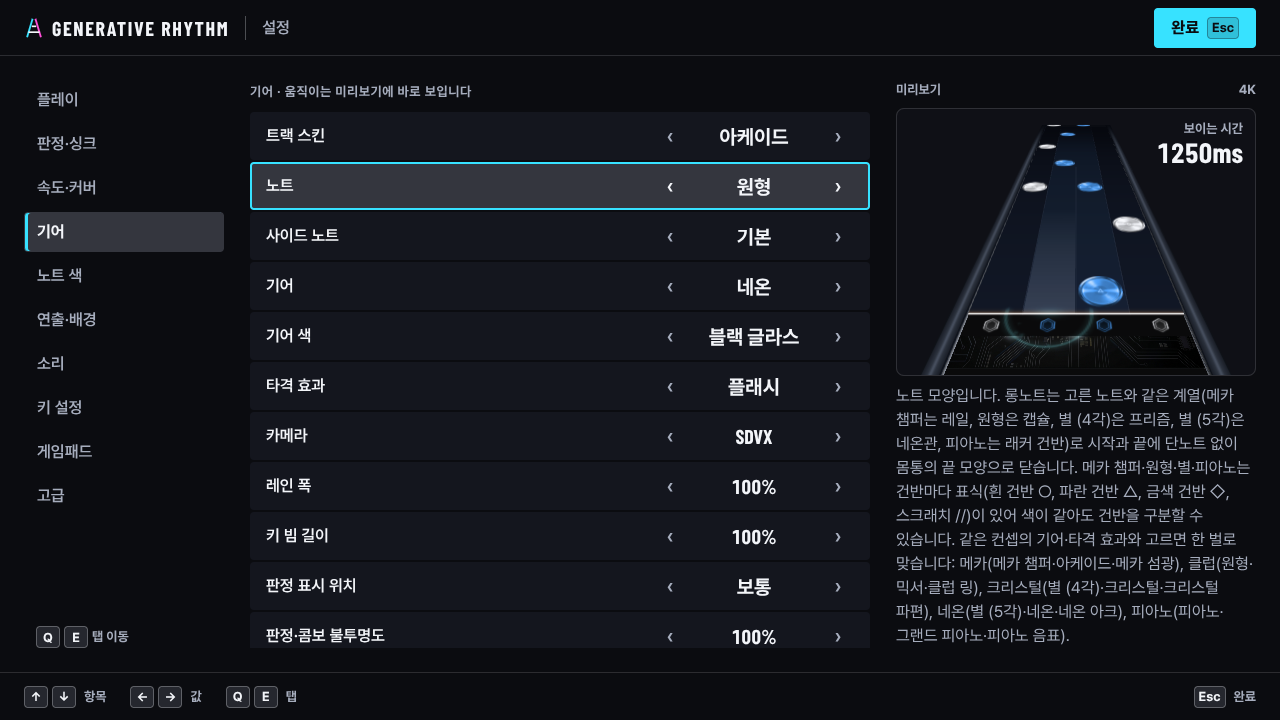
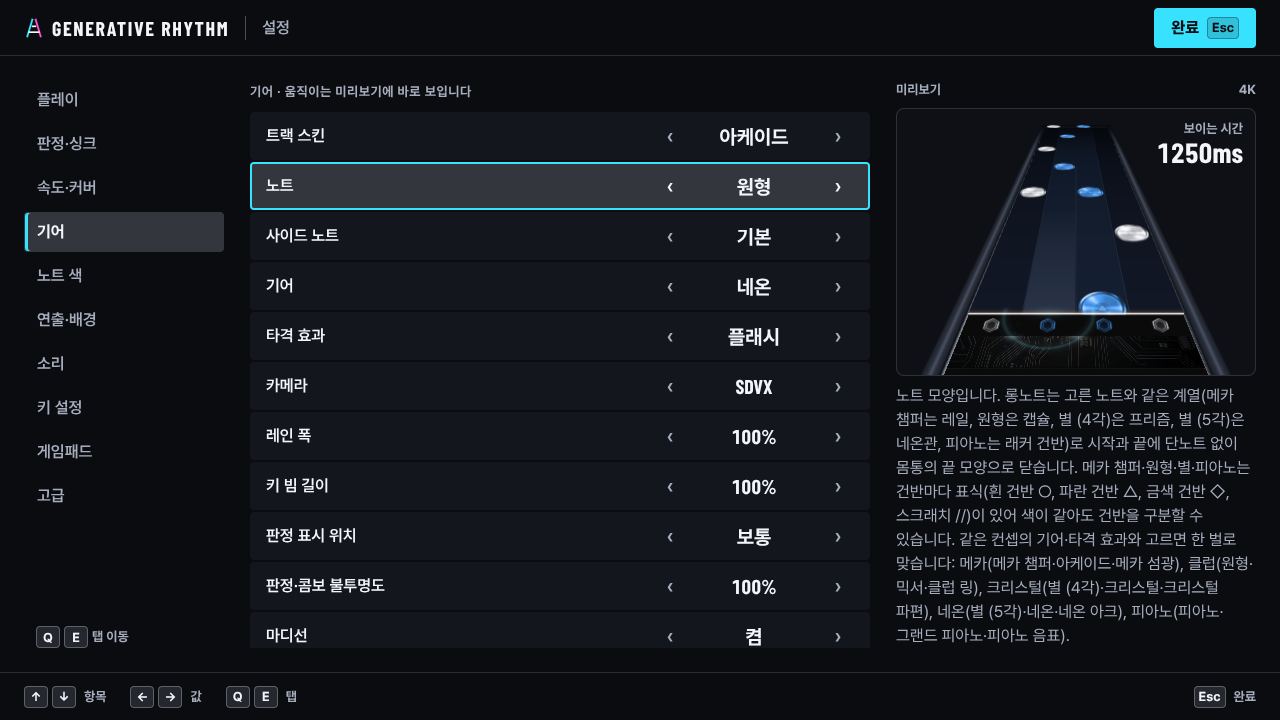
Docs: one look a gear, with screenshots
README: the settings line and the skins section without the gear colour (each
gear's one look named), the five sets' screenshots shot again in their own
looks (28-set-mecha … 32-set-piano, in place of 28-mecha-red … 33-club-walnut),
and the captions of the skins' and hits' screenshots without a colourway. The
lines of the tests: a plate a gear in the unit tests, and in the e2e tests no
gear colour row and an earlier version's gear colour dropped.

ARCHITECTURE: the gear and the track borders in one look a gear, the parts
without deckColour, data-art's "gear", and a row for the gear colour's removal.
TESTING: the manual checks of the five sets without colourways, and that the
gear tab has no 기어 색 row.

The screenshots that showed a gear colour are shot again: the gear tab of the
settings (11, 26), the jewel and pop skins (16, 18), the hits on the arcade and
crystal gears (22, 24) and the five sets (28–32).

고친 문제:
- 문서와 스크린샷이 없앤 기어 색을 설명하고 보여 주었다. 기어마다 한 가지 모습으로 고치고 해당 스크린샷을 다시 찍었다.

Claude-Session: https://claude.ai/code/session_01BwEeGPydwWxbHMk4SP9G9k

diff --git a/client/e2e/screenshots.spec.ts b/client/e2e/screenshots.spec.ts
@@ -325,7 +325,7 @@ test('play: the flat PLANE camera, with the judge counter and a pacemaker', asyn
   await shot(page, '20-play-plane');
 });
 
-test('play: four of the skins, and the five sets each in a gear colour of its own', async ({ page }) => {
+test('play: four of the skins, and the five sets', async ({ page }) => {
   // also runs on its own (-g "four of the skins"): makes the showcase song when it is missing
   await page.goto('/');
   const songs = (await (await page.request.get('/api/songs')).json()).songs as { title: string }[];
@@ -334,23 +334,22 @@ test('play: four of the skins, and the five sets each in a gear colour of its ow
   // and type only); FEVER off: its tint would cover the skins' rail colours
   for (const [skin, keyMode, name, cameraPreset, parts] of [
     ['glass', '7K+1S', '15-skin-crystal', 'SDVX', { note: 'star4', side: 'bar', deck: 'crystal', hit: 'crystal' }],
-    ['jewel', '6K+FX', '16-skin-jewel', 'SDVX', { note: 'chamfer', side: 'bar', deck: 'crystal', deckColour: 'smoke', hit: 'flare' }],
+    ['jewel', '6K+FX', '16-skin-jewel', 'SDVX', { note: 'chamfer', side: 'bar', deck: 'crystal', hit: 'flare' }],
     ['arcade', '8K', '17-skin-arcade', 'FLAT', { note: 'chamfer', side: 'bar', deck: 'arcade', hit: 'mecha' }],
-    ['pop', '4K', '18-skin-pop', 'SDVX', { note: 'round', side: 'bar', deck: 'mixer', deckColour: 'white', hit: 'bubbles' }],
+    ['pop', '4K', '18-skin-pop', 'SDVX', { note: 'round', side: 'bar', deck: 'mixer', hit: 'bubbles' }],
   ] as const) {
     await settings(page, { lastKeyMode: keyMode, skin, cameraPreset, hiSpeed: 3, fever: 'OFF', parts });
     await selectShowcase(page, keyMode, 'MAXIMUM');
     await autoplayFor(page, 14_200);
     await shot(page, name);
   }
-  // each set with its gear in a colourway other than its own, its module in the scratch lane
+  // each set whole, its gear's module in the scratch lane
   for (const [skin, parts, name] of [
-    ['arcade', { note: 'chamfer', side: 'bar', deck: 'arcade', deckColour: 'red', hit: 'mecha' }, '28-mecha-red'],
-    ['club', { note: 'round', side: 'bar', deck: 'mixer', deckColour: 'silver', hit: 'club' }, '29-club-silver'],
-    ['glass', { note: 'star4', side: 'bar', deck: 'crystal', deckColour: 'rosegold', hit: 'crystal' }, '30-crystal-rosegold'],
-    ['neon', { note: 'star5', side: 'bar', deck: 'neon', deckColour: 'burgundy', hit: 'neon' }, '31-neon-burgundy'],
-    ['flat', { note: 'piano', side: 'bar', deck: 'grand', deckColour: 'mahogany', hit: 'piano' }, '32-piano-mahogany'],
-    ['club', { note: 'round', side: 'bar', deck: 'mixer', deckColour: 'walnut', hit: 'club' }, '33-club-walnut'],
+    ['arcade', { note: 'chamfer', side: 'bar', deck: 'arcade', hit: 'mecha' }, '28-set-mecha'],
+    ['club', { note: 'round', side: 'bar', deck: 'mixer', hit: 'club' }, '29-set-club'],
+    ['glass', { note: 'star4', side: 'bar', deck: 'crystal', hit: 'crystal' }, '30-set-crystal'],
+    ['neon', { note: 'star5', side: 'bar', deck: 'neon', hit: 'neon' }, '31-set-neon'],
+    ['flat', { note: 'piano', side: 'bar', deck: 'grand', hit: 'piano' }, '32-set-piano'],
   ] as const) {
     await settings(page, { lastKeyMode: '7K+1S', skin, parts, cameraPreset: 'SDVX', hiSpeed: 3, fever: 'OFF' });
     await selectShowcase(page, '7K+1S', 'MAXIMUM');
@@ -365,10 +364,10 @@ test('play: the four hits of no set, each with notes, side notes and a gear pick
   const songs = (await (await page.request.get('/api/songs')).json()).songs as { title: string }[];
   if (!songs.some((s) => s.title === SHOWCASE)) await page.request.post('/api/songs/demo', { data: { bpm: 150, bars: 24, seed: 21 } });
   for (const [parts, keyMode, name] of [
-    [{ note: 'chamfer', side: 'bar', deck: 'arcade', deckColour: 'white', hit: 'flash' }, '7K+1S', '22-hit-flash'],
-    [{ note: 'round', side: 'bar', deck: 'mixer', deckColour: 'black', hit: 'flare' }, '8K', '23-hit-flare'],
-    [{ note: 'star4', side: 'dots', deck: 'crystal', deckColour: 'gold', hit: 'bubbles' }, '6K+FX', '24-hit-bubbles'],
-    [{ note: 'star5', side: 'dots', deck: 'grand', deckColour: 'ebony', hit: 'grid' }, '6K+FX', '25-hit-grid'],
+    [{ note: 'chamfer', side: 'bar', deck: 'arcade', hit: 'flash' }, '7K+1S', '22-hit-flash'],
+    [{ note: 'round', side: 'bar', deck: 'mixer', hit: 'flare' }, '8K', '23-hit-flare'],
+    [{ note: 'star4', side: 'dots', deck: 'crystal', hit: 'bubbles' }, '6K+FX', '24-hit-bubbles'],
+    [{ note: 'star5', side: 'dots', deck: 'grand', hit: 'grid' }, '6K+FX', '25-hit-grid'],
   ] as const) {
     await watchSources(page);
     await settings(page, { lastKeyMode: keyMode, skin: 'flat', parts, hiSpeed: 3, fever: 'OFF' });
